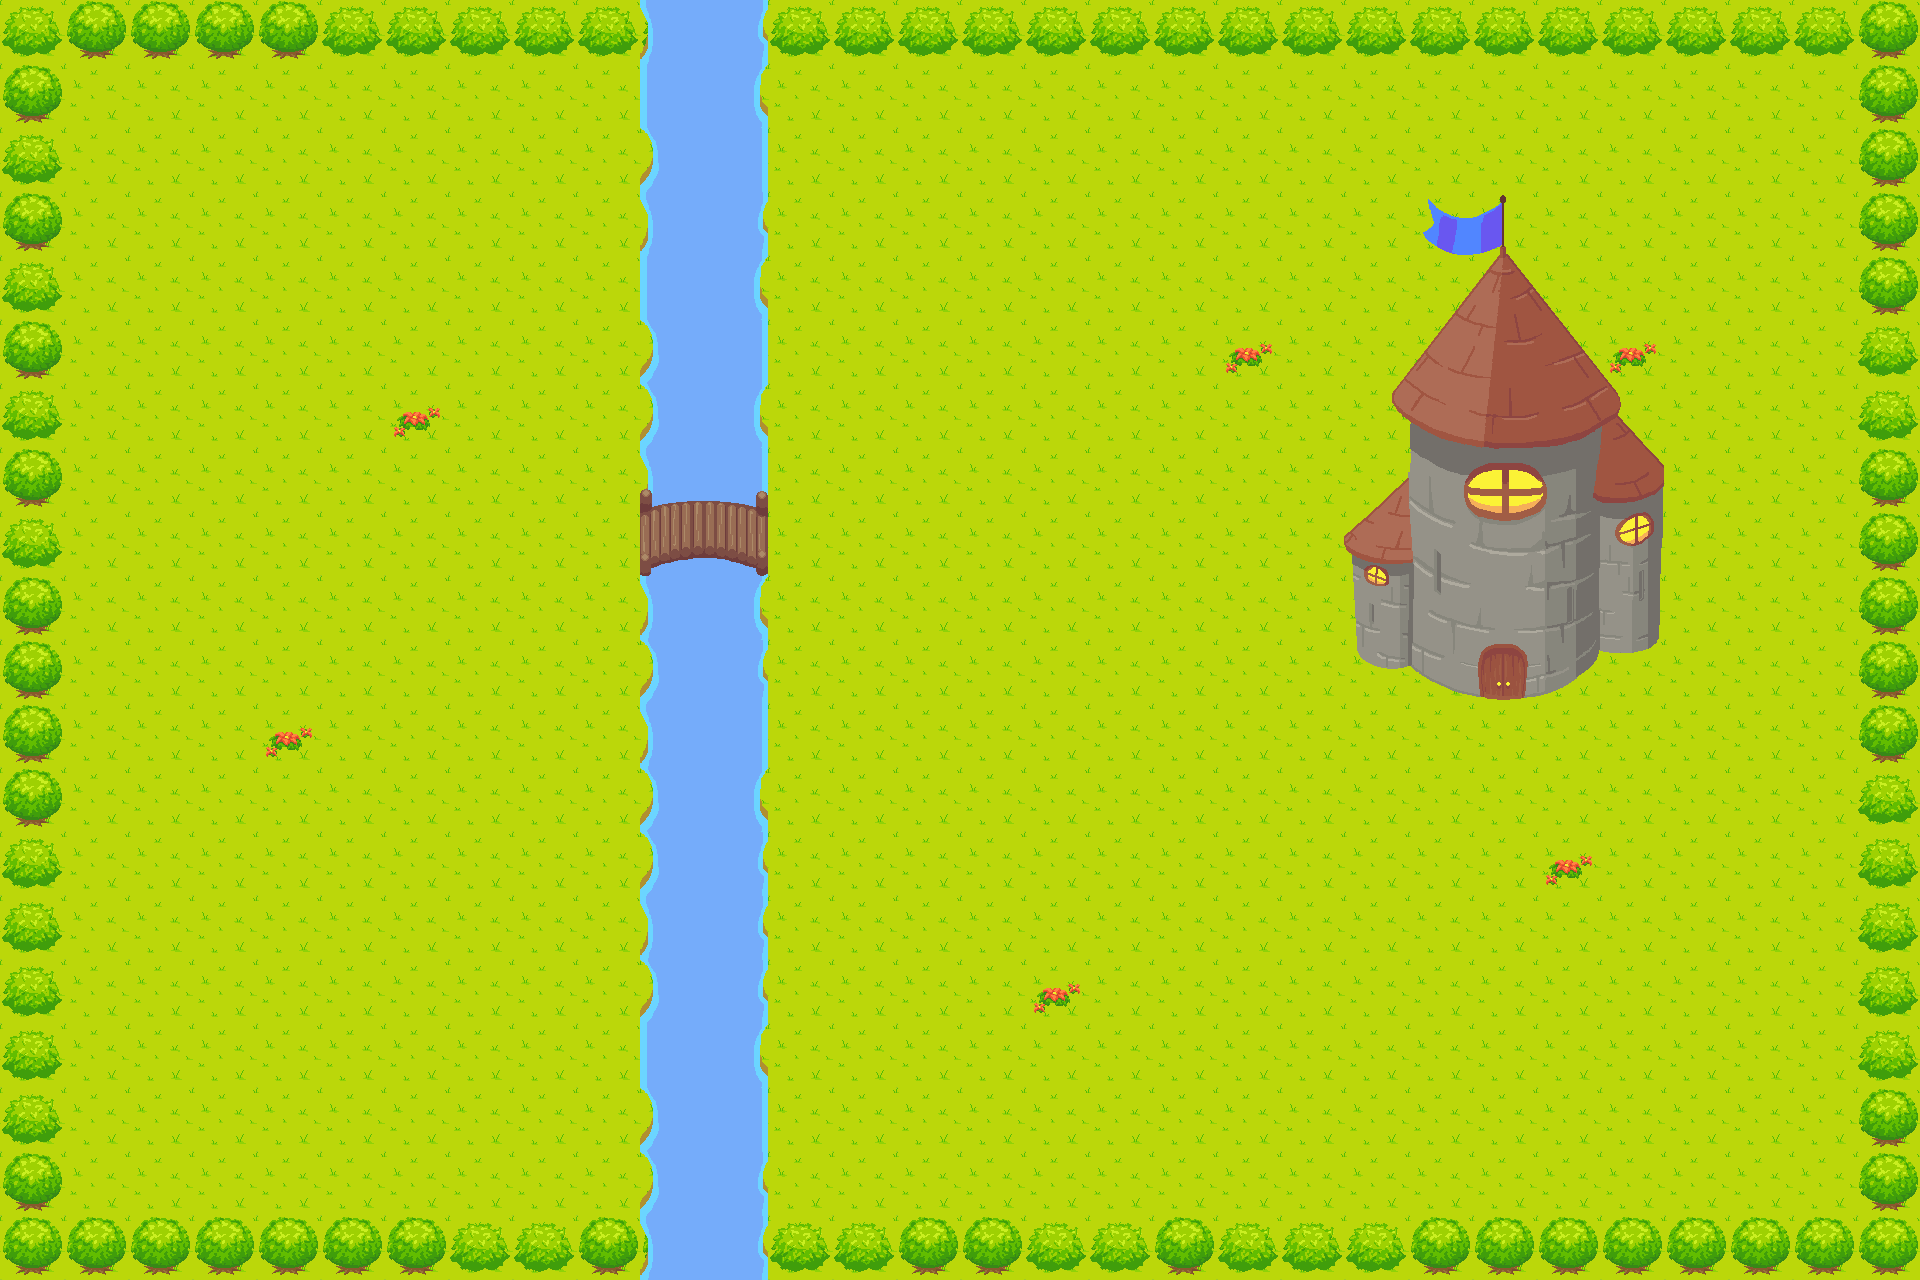
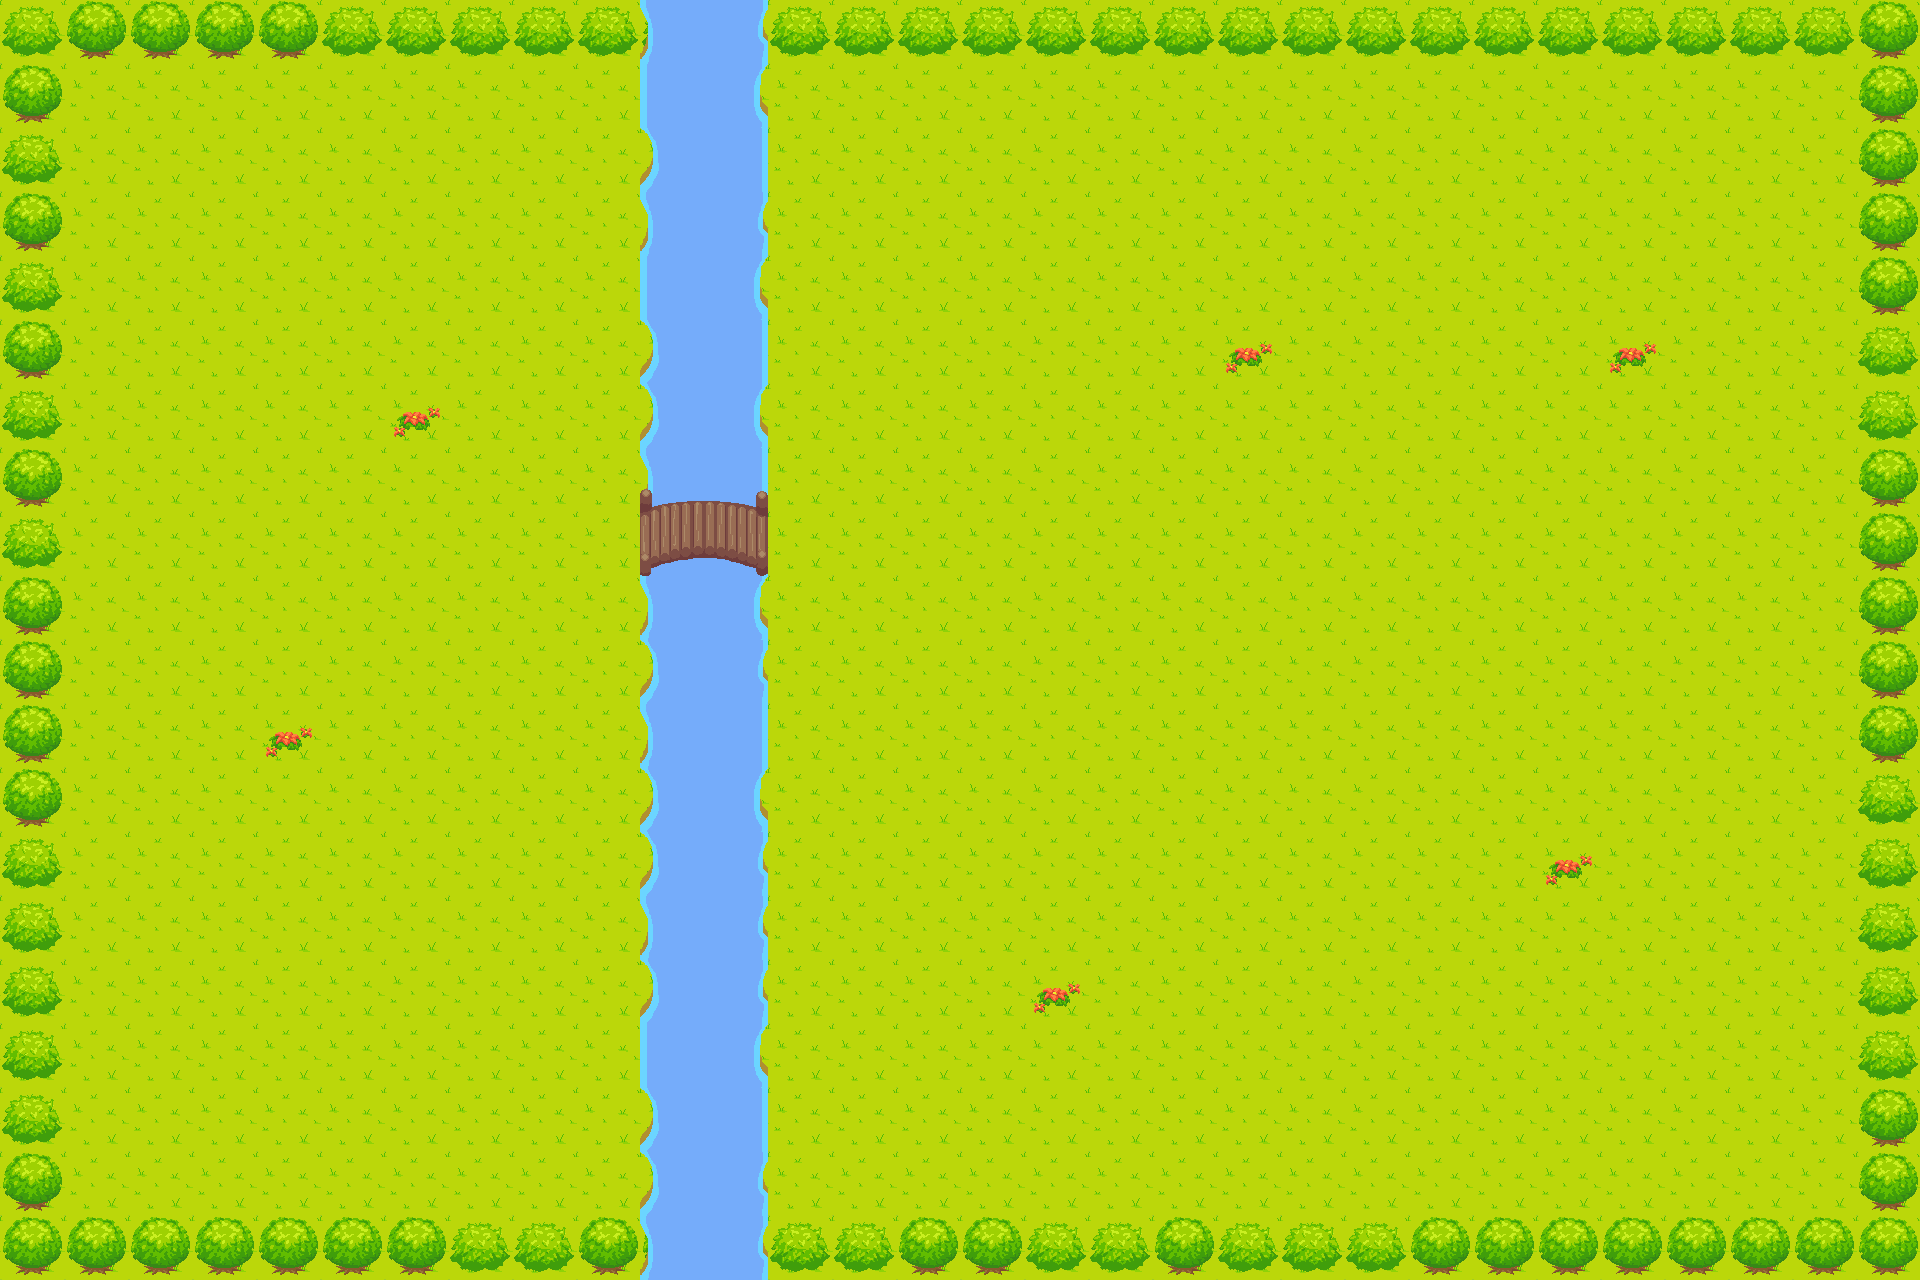
first map import

Changed region(s): [[0.6875, 0.1562, 0.875, 0.5625]]

diff --git a/settings.py b/settings.py
@@ -8,25 +8,3 @@ TILESIZE = 64 #vllt noch höher mal sehen wie es aussieht muss man auch mit Fens
 
 
 
-WORLD_MAP = [
-['x','x','x','x','x','x','x','x','x','x','x','x','x','x','x','x','x','x','x','x'],
-['x',' ',' ',' ',' ',' ',' ',' ',' ',' ',' ',' ',' ',' ',' ',' ',' ',' ',' ','x'],
-['x',' ','p',' ',' ',' ',' ',' ',' ',' ',' ',' ',' ',' ',' ',' ',' ',' ',' ','x'],
-['x',' ',' ','x',' ',' ',' ',' ',' ','x','x','x','x','x',' ',' ',' ',' ',' ','x'],
-['x',' ',' ','x',' ',' ',' ',' ',' ',' ',' ',' ',' ','x',' ',' ',' ',' ',' ','x'],
-['x',' ',' ','x',' ',' ',' ',' ',' ',' ',' ',' ',' ','x',' ',' ',' ',' ',' ','x'],
-['x',' ',' ','x',' ',' ',' ',' ',' ',' ',' ',' ',' ','x',' ',' ',' ',' ',' ','x'],
-['x',' ',' ','x',' ',' ',' ',' ',' ',' ',' ',' ',' ','x',' ',' ',' ',' ',' ','x'],
-['x',' ',' ','x',' ',' ',' ',' ',' ',' ',' ',' ',' ','x',' ',' ',' ',' ',' ','x'],
-['x',' ',' ','x',' ',' ',' ',' ',' ',' ',' ',' ',' ','x',' ',' ',' ',' ',' ','x'],
-['x',' ',' ','x',' ',' ',' ',' ',' ',' ',' ',' ',' ','x',' ',' ',' ',' ',' ','x'],
-['x',' ',' ','x',' ',' ',' ',' ',' ',' ',' ',' ',' ','x','x','x',' ',' ',' ','x'],
-['x',' ',' ',' ',' ',' ',' ','x',' ','x',' ',' ',' ',' ',' ',' ',' ',' ',' ','x'],
-['x',' ',' ',' ',' ',' ','x','x','x','x','x',' ',' ',' ',' ',' ',' ',' ',' ','x'],
-['x',' ',' ',' ',' ',' ',' ','x','x','x',' ',' ',' ',' ',' ',' ',' ',' ',' ','x'],
-['x',' ',' ',' ',' ',' ',' ',' ','x',' ',' ',' ',' ',' ',' ',' ',' ',' ',' ','x'],
-['x',' ',' ',' ',' ',' ',' ',' ',' ',' ',' ',' ',' ',' ',' ',' ',' ',' ',' ','x'],
-['x',' ',' ',' ',' ',' ',' ',' ',' ',' ',' ',' ',' ',' ',' ',' ',' ',' ',' ','x'],
-['x',' ',' ',' ',' ',' ',' ',' ',' ',' ',' ',' ',' ',' ',' ',' ',' ',' ',' ','x'],
-['x','x','x','x','x','x','x','x','x','x','x','x','x','x','x','x','x','x','x','x'],
-]

diff --git a/level.py b/level.py
@@ -43,8 +43,12 @@ class Level:
                         if style == "flower":
                             random_flower_image = choice(graphics["flower"])
                             Tile((x,y), [self.visible_sprites], "flower", random_flower_image)
-                        if style == "":
-                            pass
+                        """KOMMENTAR NICHT LÖSCHEN
+                           TEILE DAVON IN "TILE" wenn ein object größer als 64x64 muss es einen offset geben
+                        if style == "object":
+                            surf = graphics["objects][int(col)]
+                            Tile((x,y), [self.visible_sprites, self.obstacle_sprites], "object", surf)
+                        """
         self.player = Player((90, 80), [self.visible_sprites], self.obstacle_sprites)
     def run(self):
         self.draw()

diff --git a/tile.py b/tile.py
@@ -7,5 +7,8 @@ class Tile(pygame.sprite.Sprite):
         super().__init__(groups)
         self.sprite_type = sprite_type
         self.image = surface
-        self.rect = self.image.get_rect(topleft=pos)
+        if sprite_type=="object":
+            self.rect = self.image.get_rect(topleft=(pos[0], pos[1] - TILESIZE))
+        else:
+            self.rect = self.image.get_rect(topleft=pos)
         self.hitbox = self.rect.inflate(0, -10)  # mit -10 wird zB. auf beiden Seiten -5
